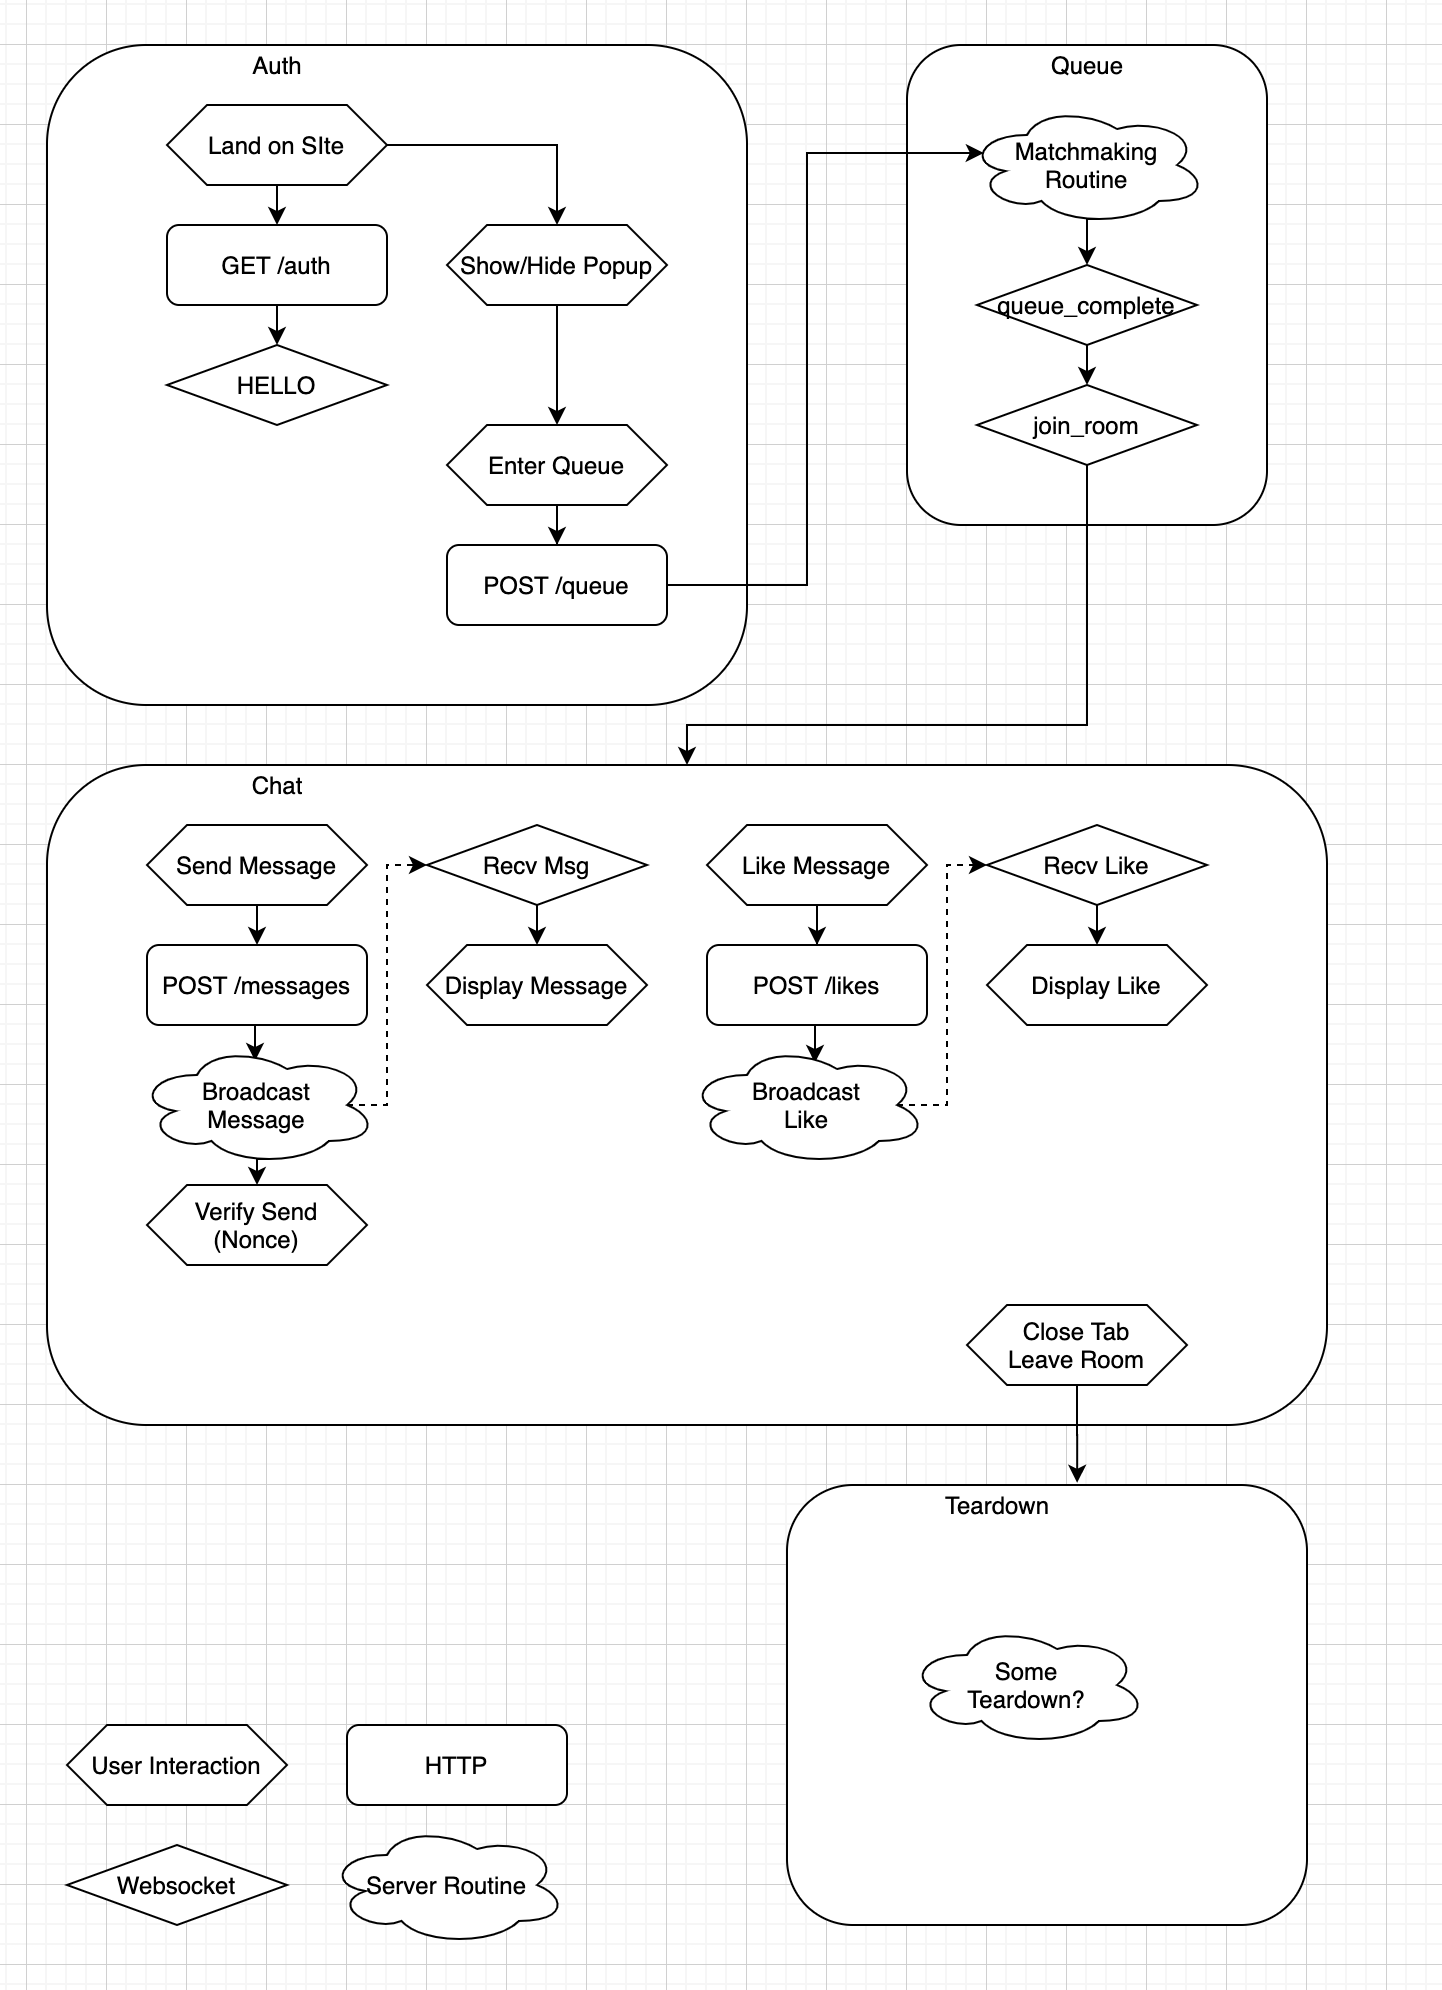
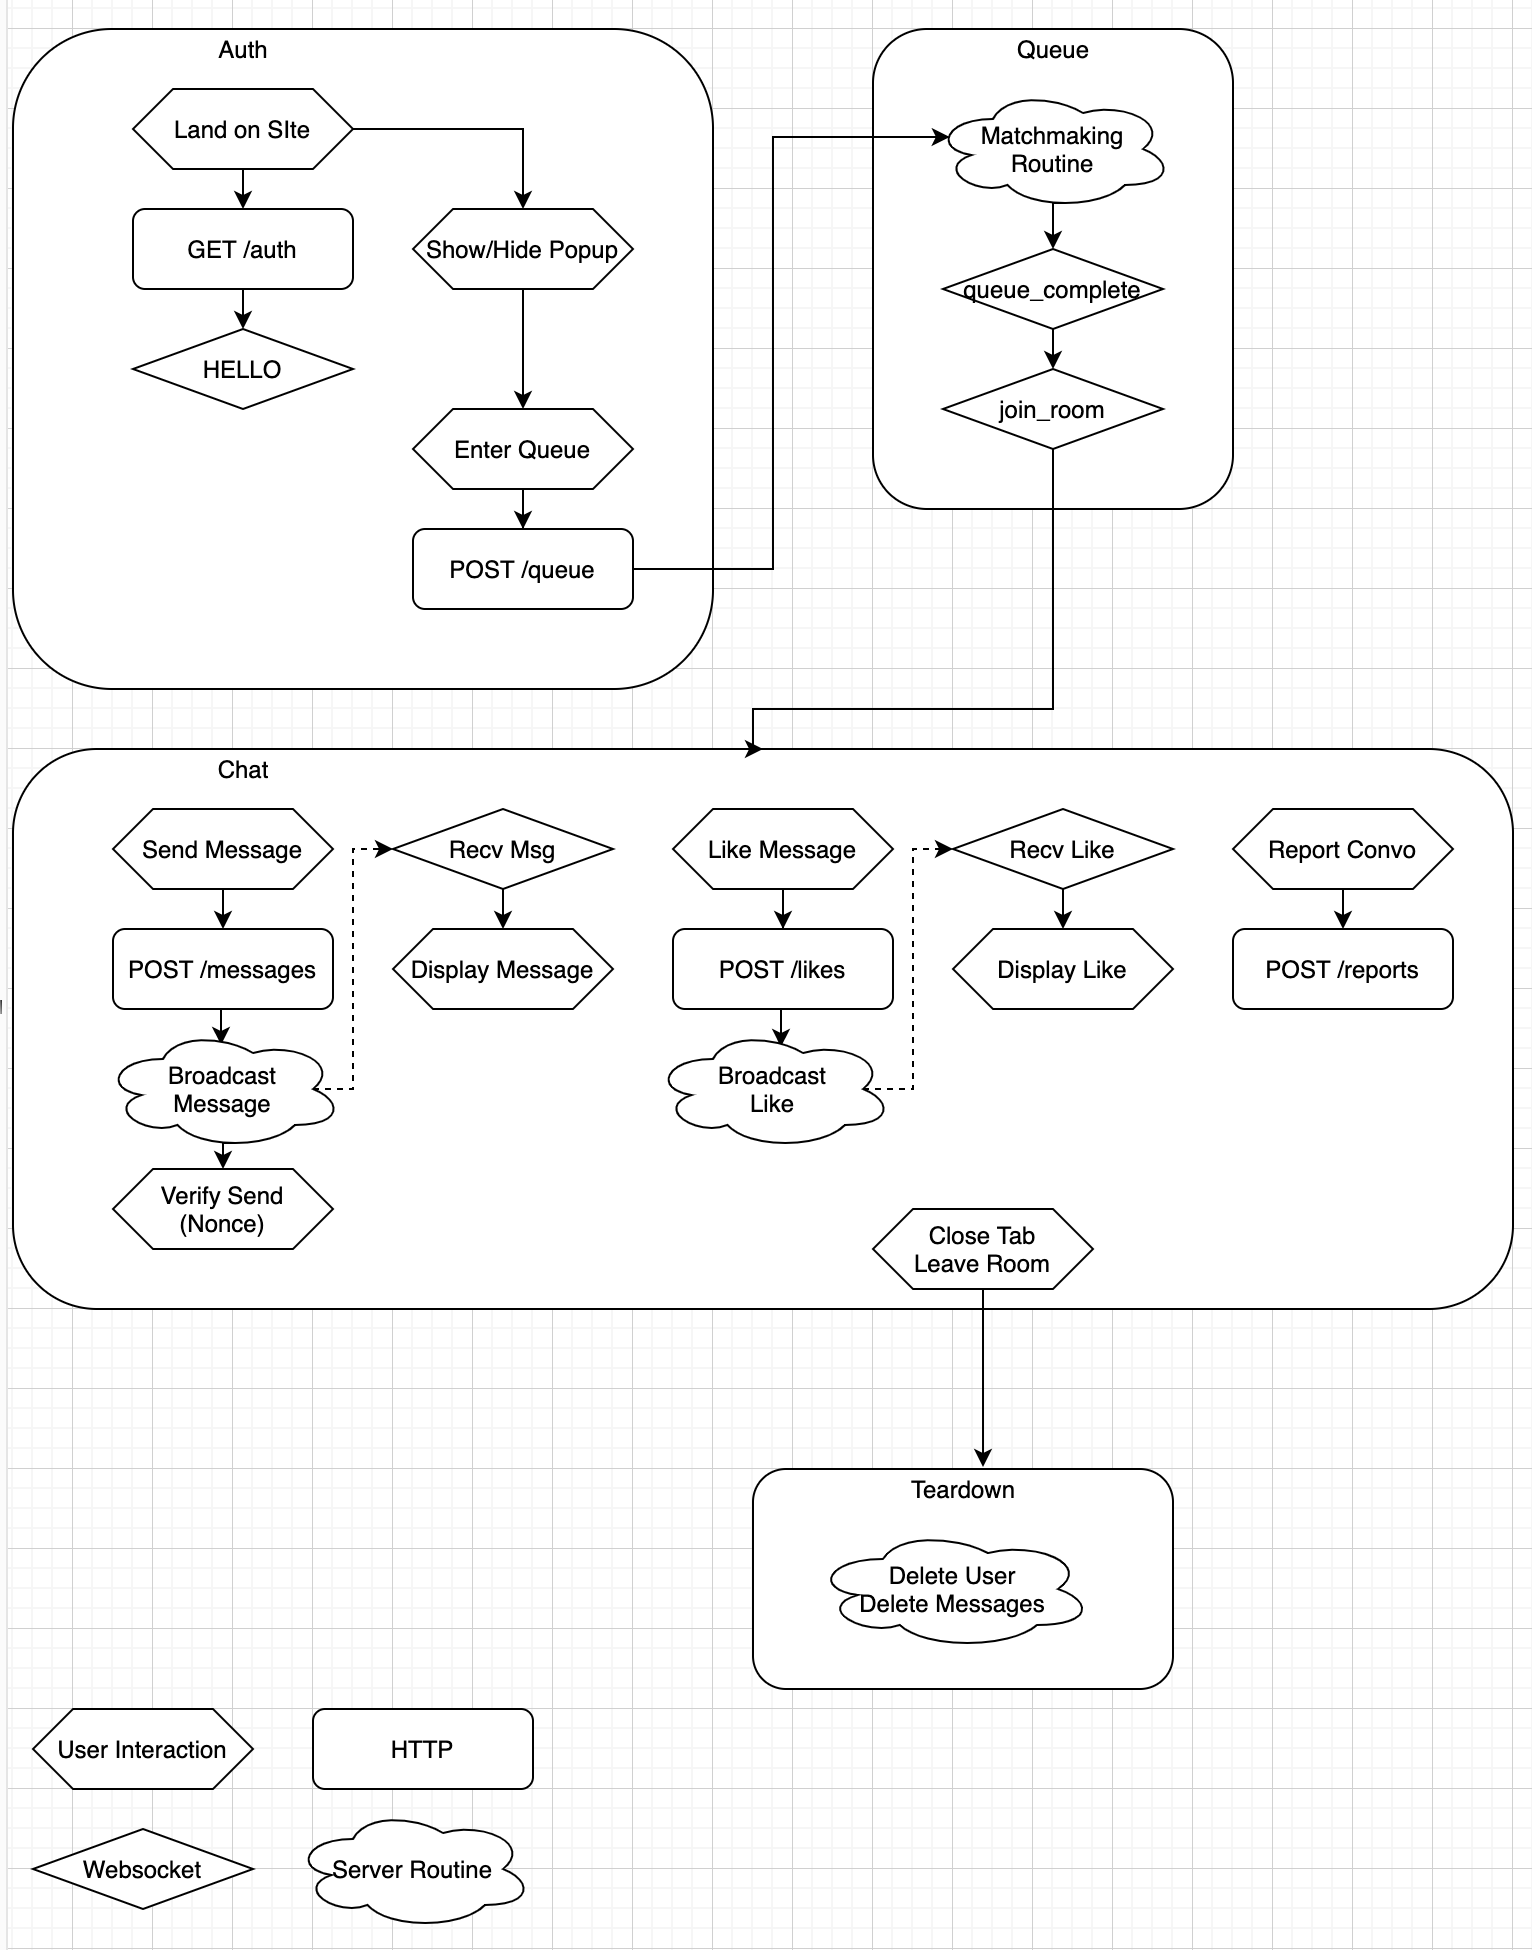
add user manual, update flowchart

diff --git a/README.md b/README.md
@@ -1,4 +1,27 @@
 # talk-to-me-docs
 Documentation and administrivia for Talk to Me Project
 
-An anonymous chatting service that allows people to talk, be heard, or listen to another person so we won't feel lonely in this difficult time.
+## Purpose
+
+The COVID-19 quarantine(s) have lead many to feel lonely and disconnected from other people. “Talk To Me” exists to 
+help these people connect with others and discuss their day, stresses, problems, or anything they want, all while being 
+anonymous.
+
+## Installation Instructions
+
+Talk to Me is a website, and requires no installation from the end user. The website can be found at 
+[https://talk-to-me.co/](https://talk-to-me.co/landing).
+
+## User Manual
+
+1. If this is your first time visiting Talk to Me, you will be presented with a message about our statement of purpose. 
+   You can read over this, and close the message when you are ready.
+2. Choose one of "Talk", "Listen", or "Be Heard", depending on what you want to chat about. If you choose "Be Heard",
+   you will try to be matched with those who have chosen "Listen", and vice versa. If you choose "Talk", you will try
+   to be matched with others who have chosen "Talk". If no one with the optimal match can be found in 10 seconds,
+   you will be matched with someone regardless of their chosen queue.
+3. Once a match is found, you two will be placed in a private chat room. Feel free to chat for as long as you want!
+   1. You can click on your partner's message to "like" it.
+   2. If your partner sends any inappropriate or offensive messages, you can report them with the "Report" button in
+      the top left.
+4. Once you are done chatting, close the tab or click "Home" to return to the landing page.
